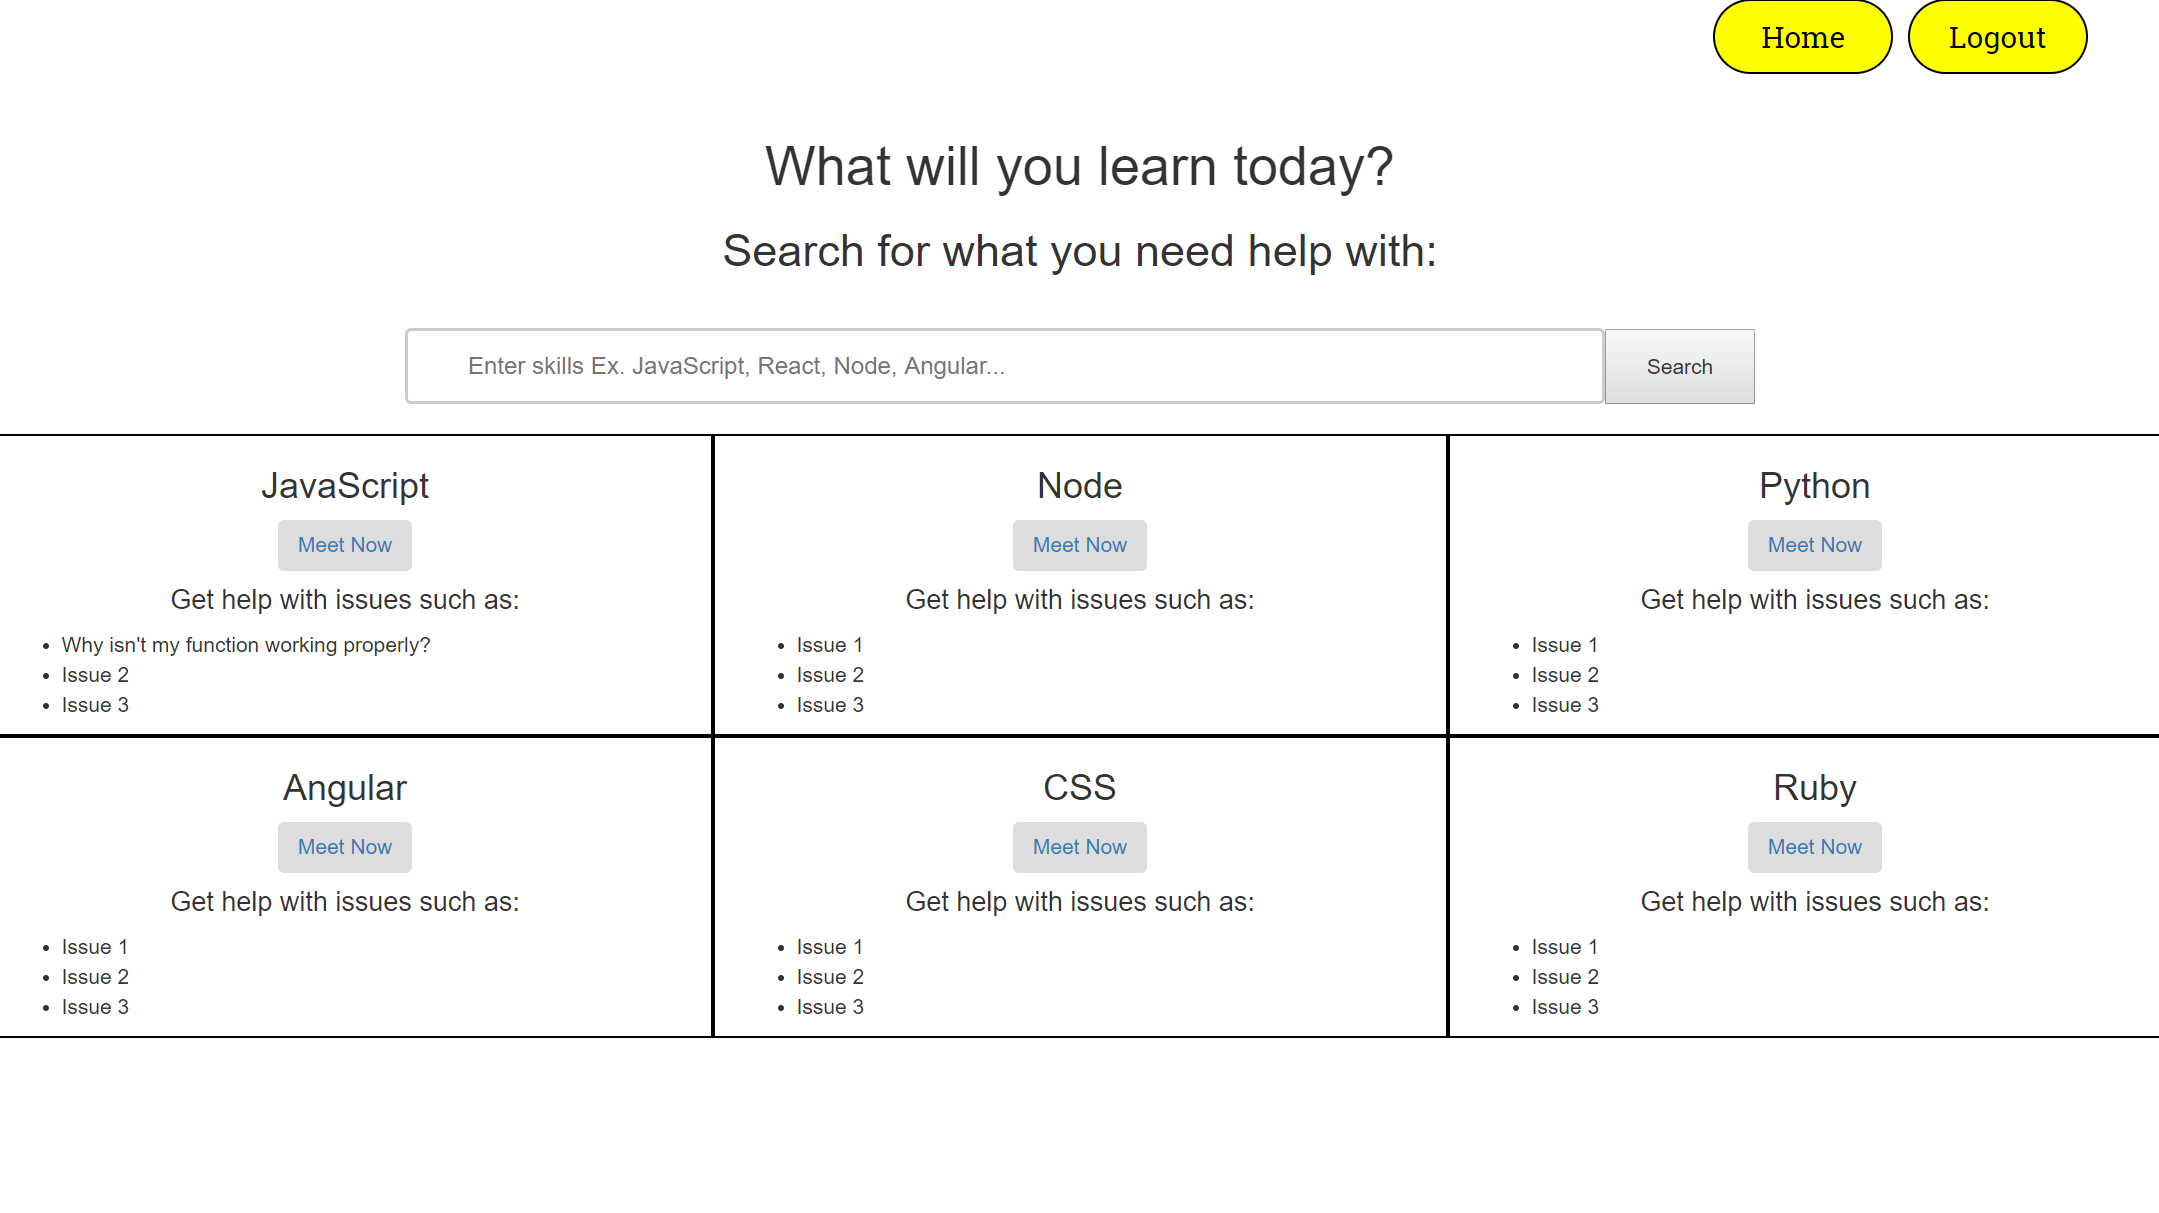
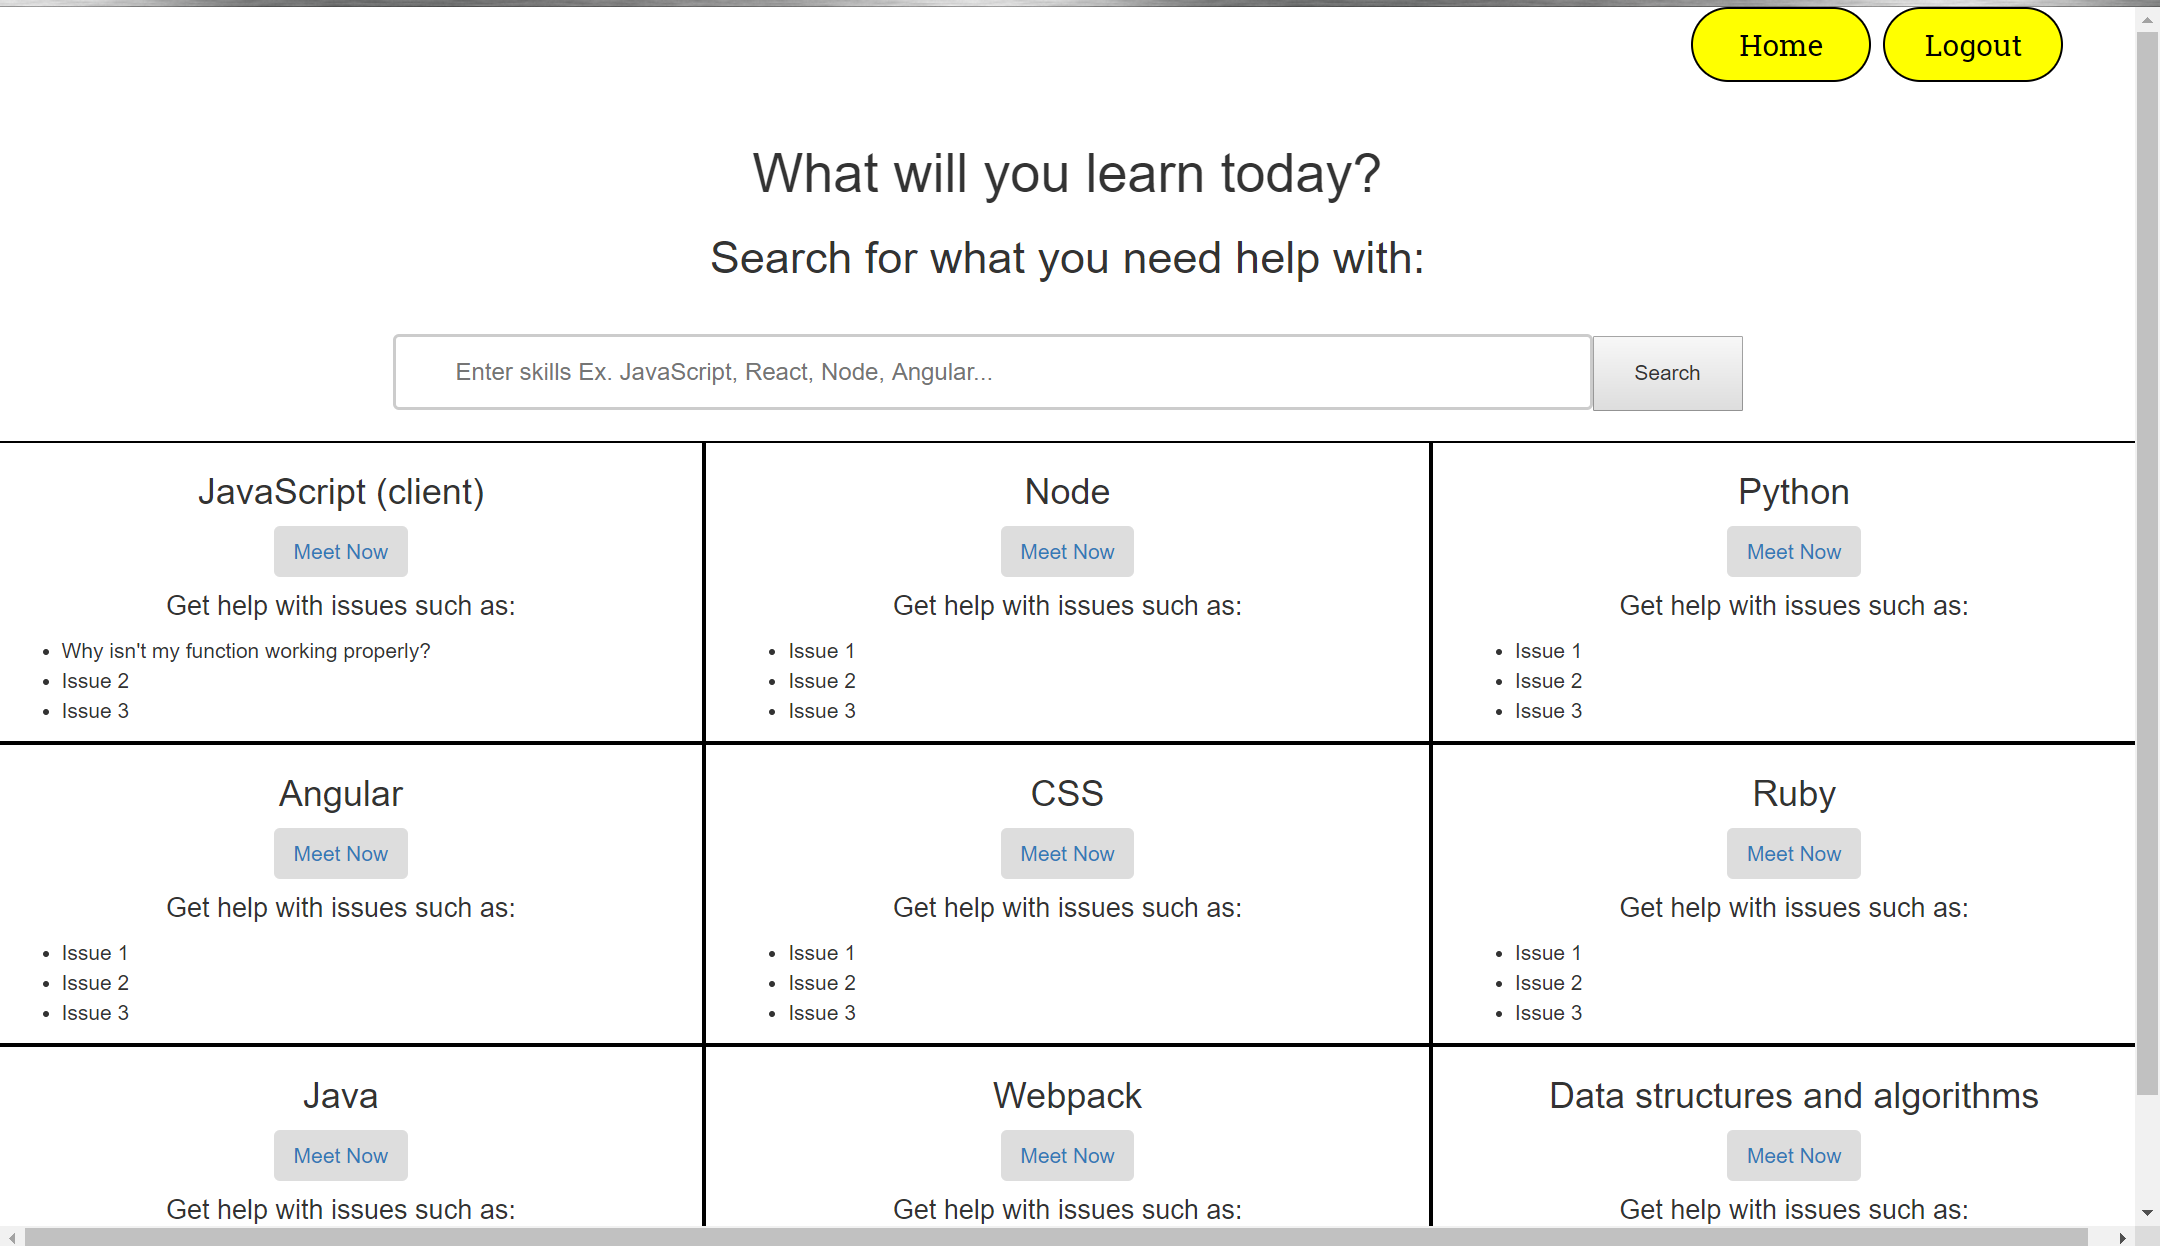
updates

Changed region(s): [[0.0, 0.0, 1.0, 1.0], [0.3414, 0.122, 0.6517, 0.1525]]

diff --git a/client/src/components/learn.js b/client/src/components/learn.js
@@ -49,7 +49,7 @@ export class Learn extends React.Component {
         <div className="learning-sections">
           <div className="row">
             <div className="topic col-md-4">
-              <h3>JavaScript</h3>
+              <h3>JavaScript (client)</h3>
               <a href="https://hangouts.google.com/hangouts/_/lightbulblearning.co/huntermotte" target="_blank"><button className="btn">Meet Now</button></a>
               <h4>Get help with issues such as:</h4>
               <ul className="issue-list">
@@ -102,6 +102,38 @@ export class Learn extends React.Component {
             </div>
             <div className="topic col-md-4">
               <h3>Ruby</h3>
+              <a href="https://hangouts.google.com/hangouts/_/lightbulblearning.co/huntermotte" target="_blank"><button className="btn">Meet Now</button></a>
+              <h4>Get help with issues such as:</h4>
+              <ul className="issue-list">
+                <li>Issue 1</li>
+                <li>Issue 2</li>
+                <li>Issue 3</li>
+              </ul>
+            </div>
+          </div>
+          <div className="row">
+            <div className="topic col-md-4">
+              <h3>Java</h3>
+              <a href="https://hangouts.google.com/hangouts/_/lightbulblearning.co/huntermotte" target="_blank"><button className="btn">Meet Now</button></a>
+              <h4>Get help with issues such as:</h4>
+              <ul className="issue-list">
+                <li>Issue 1</li>
+                <li>Issue 2</li>
+                <li>Issue 3</li>
+              </ul>
+            </div>
+            <div className="topic col-md-4">
+              <h3>Webpack</h3>
+              <a href="https://hangouts.google.com/hangouts/_/lightbulblearning.co/huntermotte" target="_blank"><button className="btn">Meet Now</button></a>
+              <h4>Get help with issues such as:</h4>
+              <ul className="issue-list">
+                <li>Issue 1</li>
+                <li>Issue 2</li>
+                <li>Issue 3</li>
+              </ul>
+            </div>
+            <div className="topic col-md-4">
+              <h3>Vue</h3>
               <a href="https://hangouts.google.com/hangouts/_/lightbulblearning.co/huntermotte" target="_blank"><button className="btn">Meet Now</button></a>
               <h4>Get help with issues such as:</h4>
               <ul className="issue-list">

diff --git a/client/src/components/home.js b/client/src/components/home.js
@@ -40,14 +40,14 @@ export default function Home(props) {
       <div className="row general-summary">
         <h1 className="motto col-md-6">Get programming help, exactly when you need it <br></br>
           <div className="row logo-row">
-            <img className="skill-logos" src={js} height="50" width="50" />
-            <img className="skill-logos" src={angular} height="50" width="50" />
-            <img className="skill-logos" src={reactLogo} height="50" width="50" />
-            <img className="skill-logos" src={node} height="50" width="70" />
-            <img className="skill-logos" src={python} height="50" width="50" />
-            <img className="skill-logos" src={mongodb} height="50" width="35" />
-            <img className="skill-logos" src={vue} height="50" width="50" />
-            <img className="skill-logos" src={ruby} height="50" width="50" />
+            <img className="skill-logos" alt="JavaScript" src={js} height="50" width="50" />
+            <img className="skill-logos" alt="Angular" src={angular} height="50" width="50" />
+            <img className="skill-logos" alt="React" src={reactLogo} height="50" width="50" />
+            <img className="skill-logos" alt="Node" src={node} height="50" width="70" />
+            <img className="skill-logos" alt="Python" src={python} height="50" width="50" />
+            <img className="skill-logos" alt="MongoDB" src={mongodb} height="50" width="35" />
+            <img className="skill-logos" alt="Vue" src={vue} height="50" width="50" />
+            <img className="skill-logos" alt="Ruby on Rails" src={ruby} height="50" width="50" />
           </div>
         </h1>
         <h2 className="col-md-6"><i className="fa fa-bolt" aria-hidden="true" /> Select the topic you need help with and find an expert who can assist <br></br><br></br><i className="fa fa-bolt" aria-hidden="true" /> Work more efficiently and consult with some of the brightest around the world</h2><br></br>
